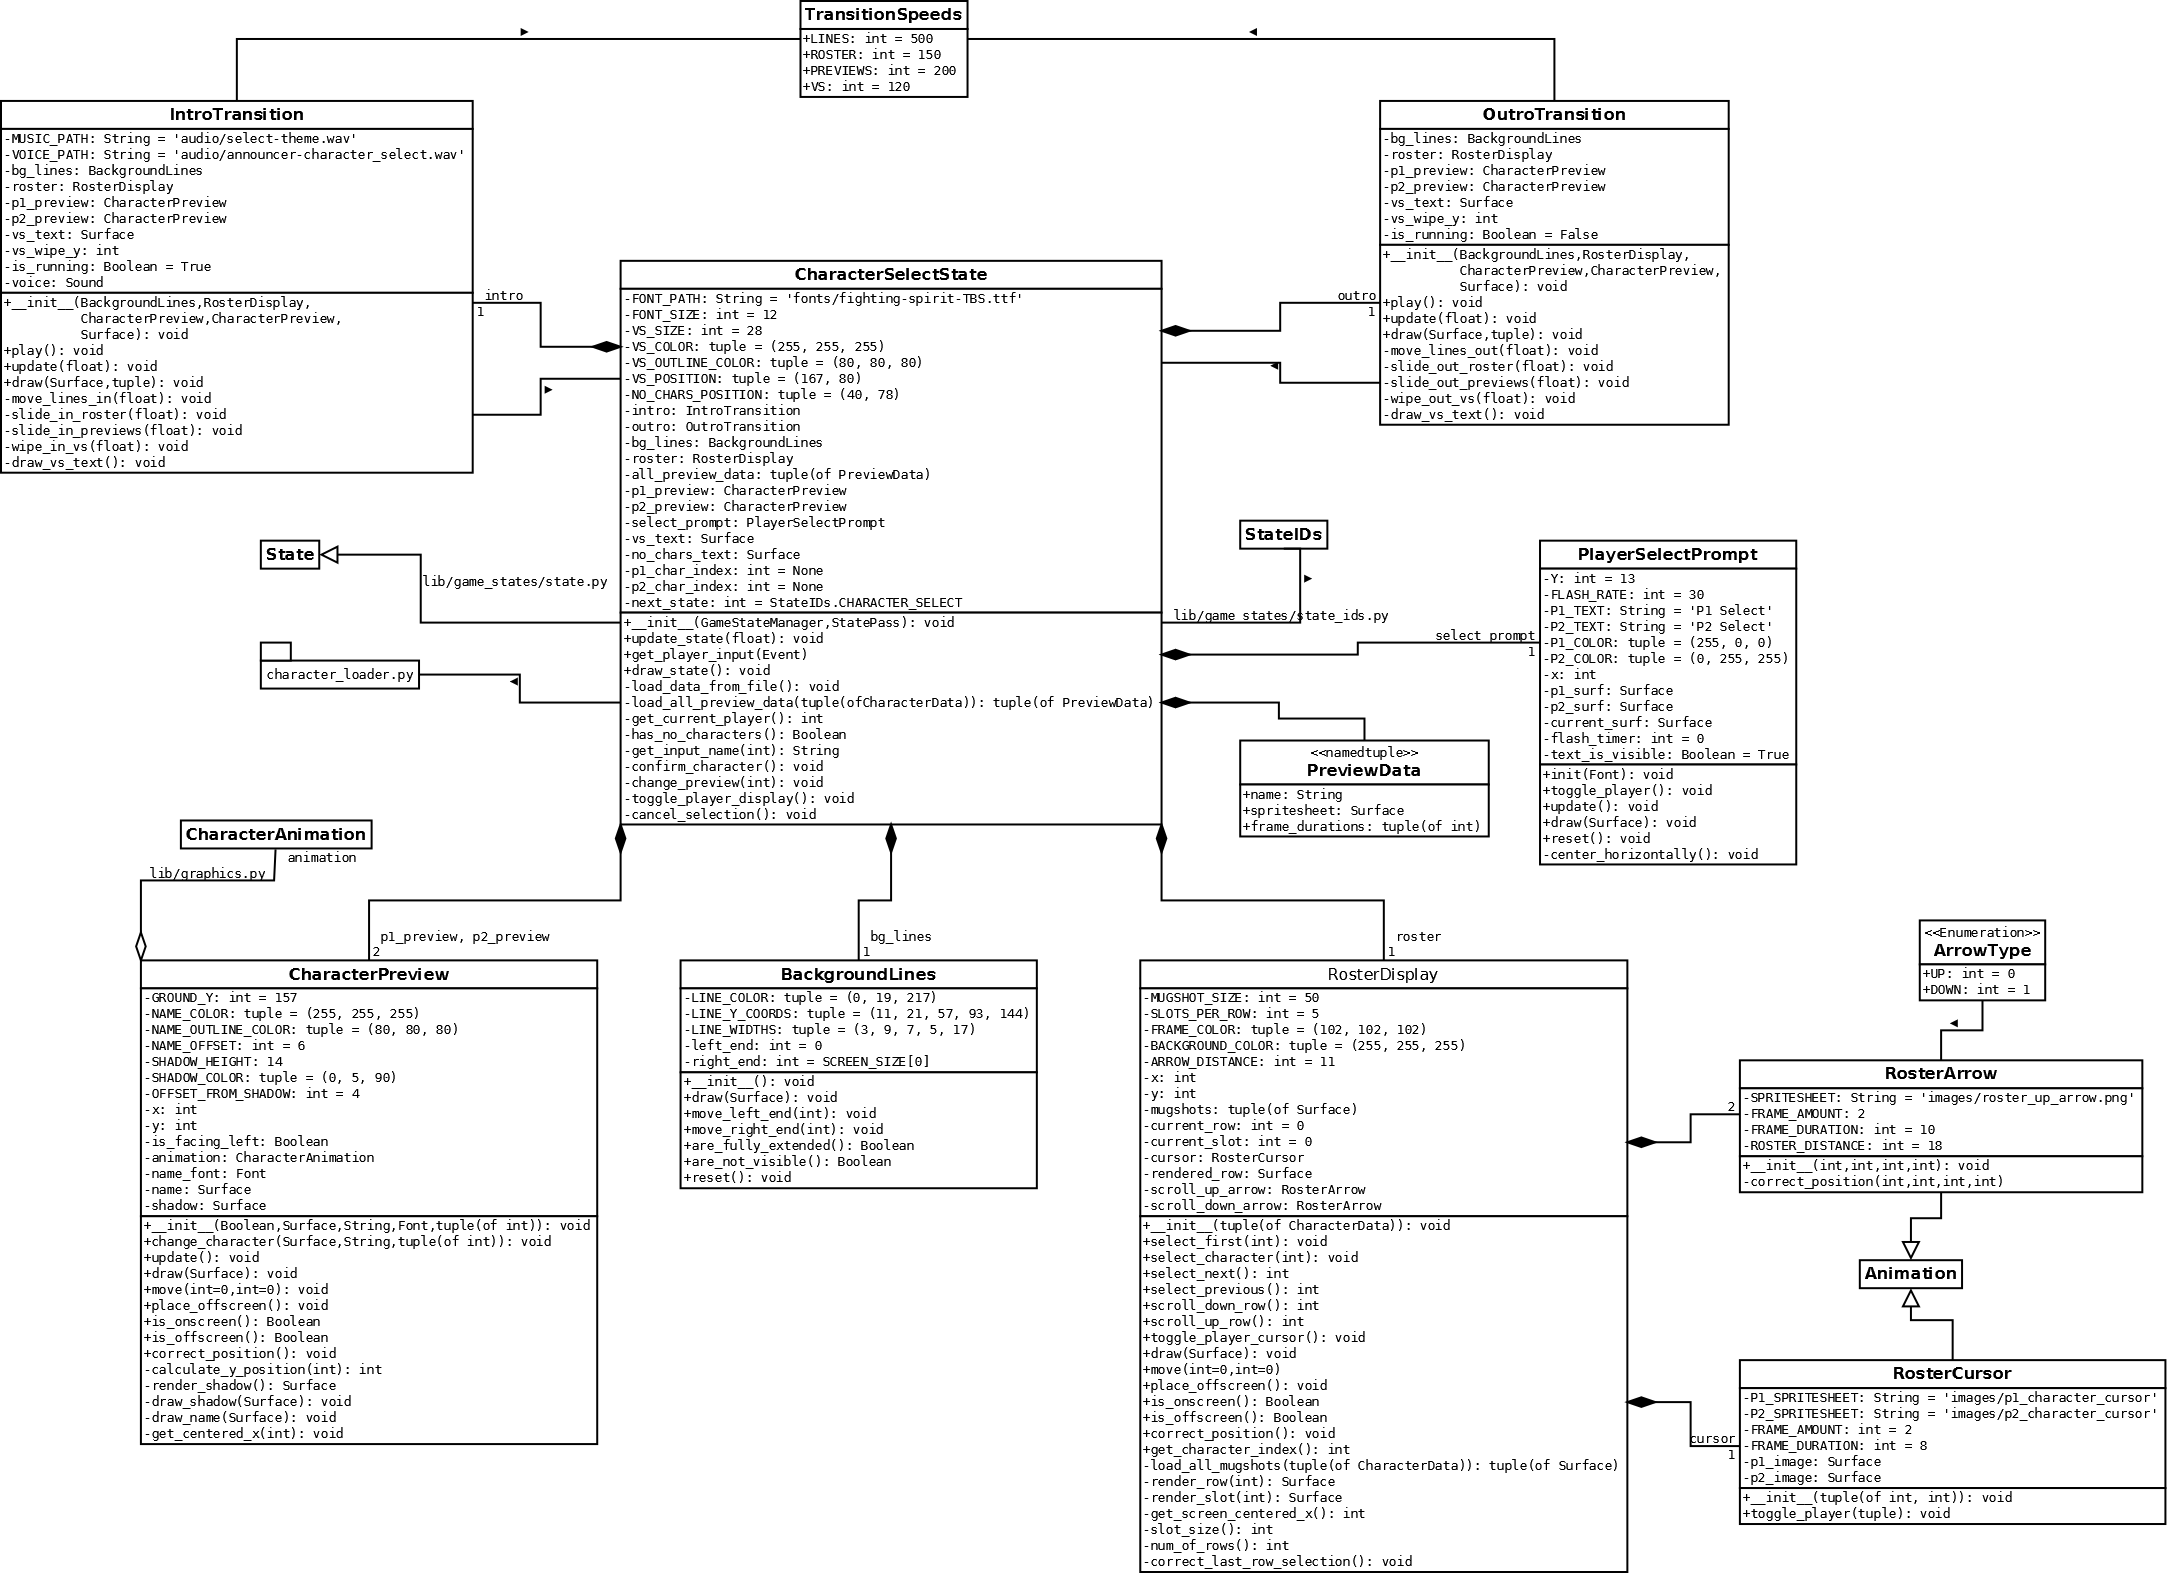
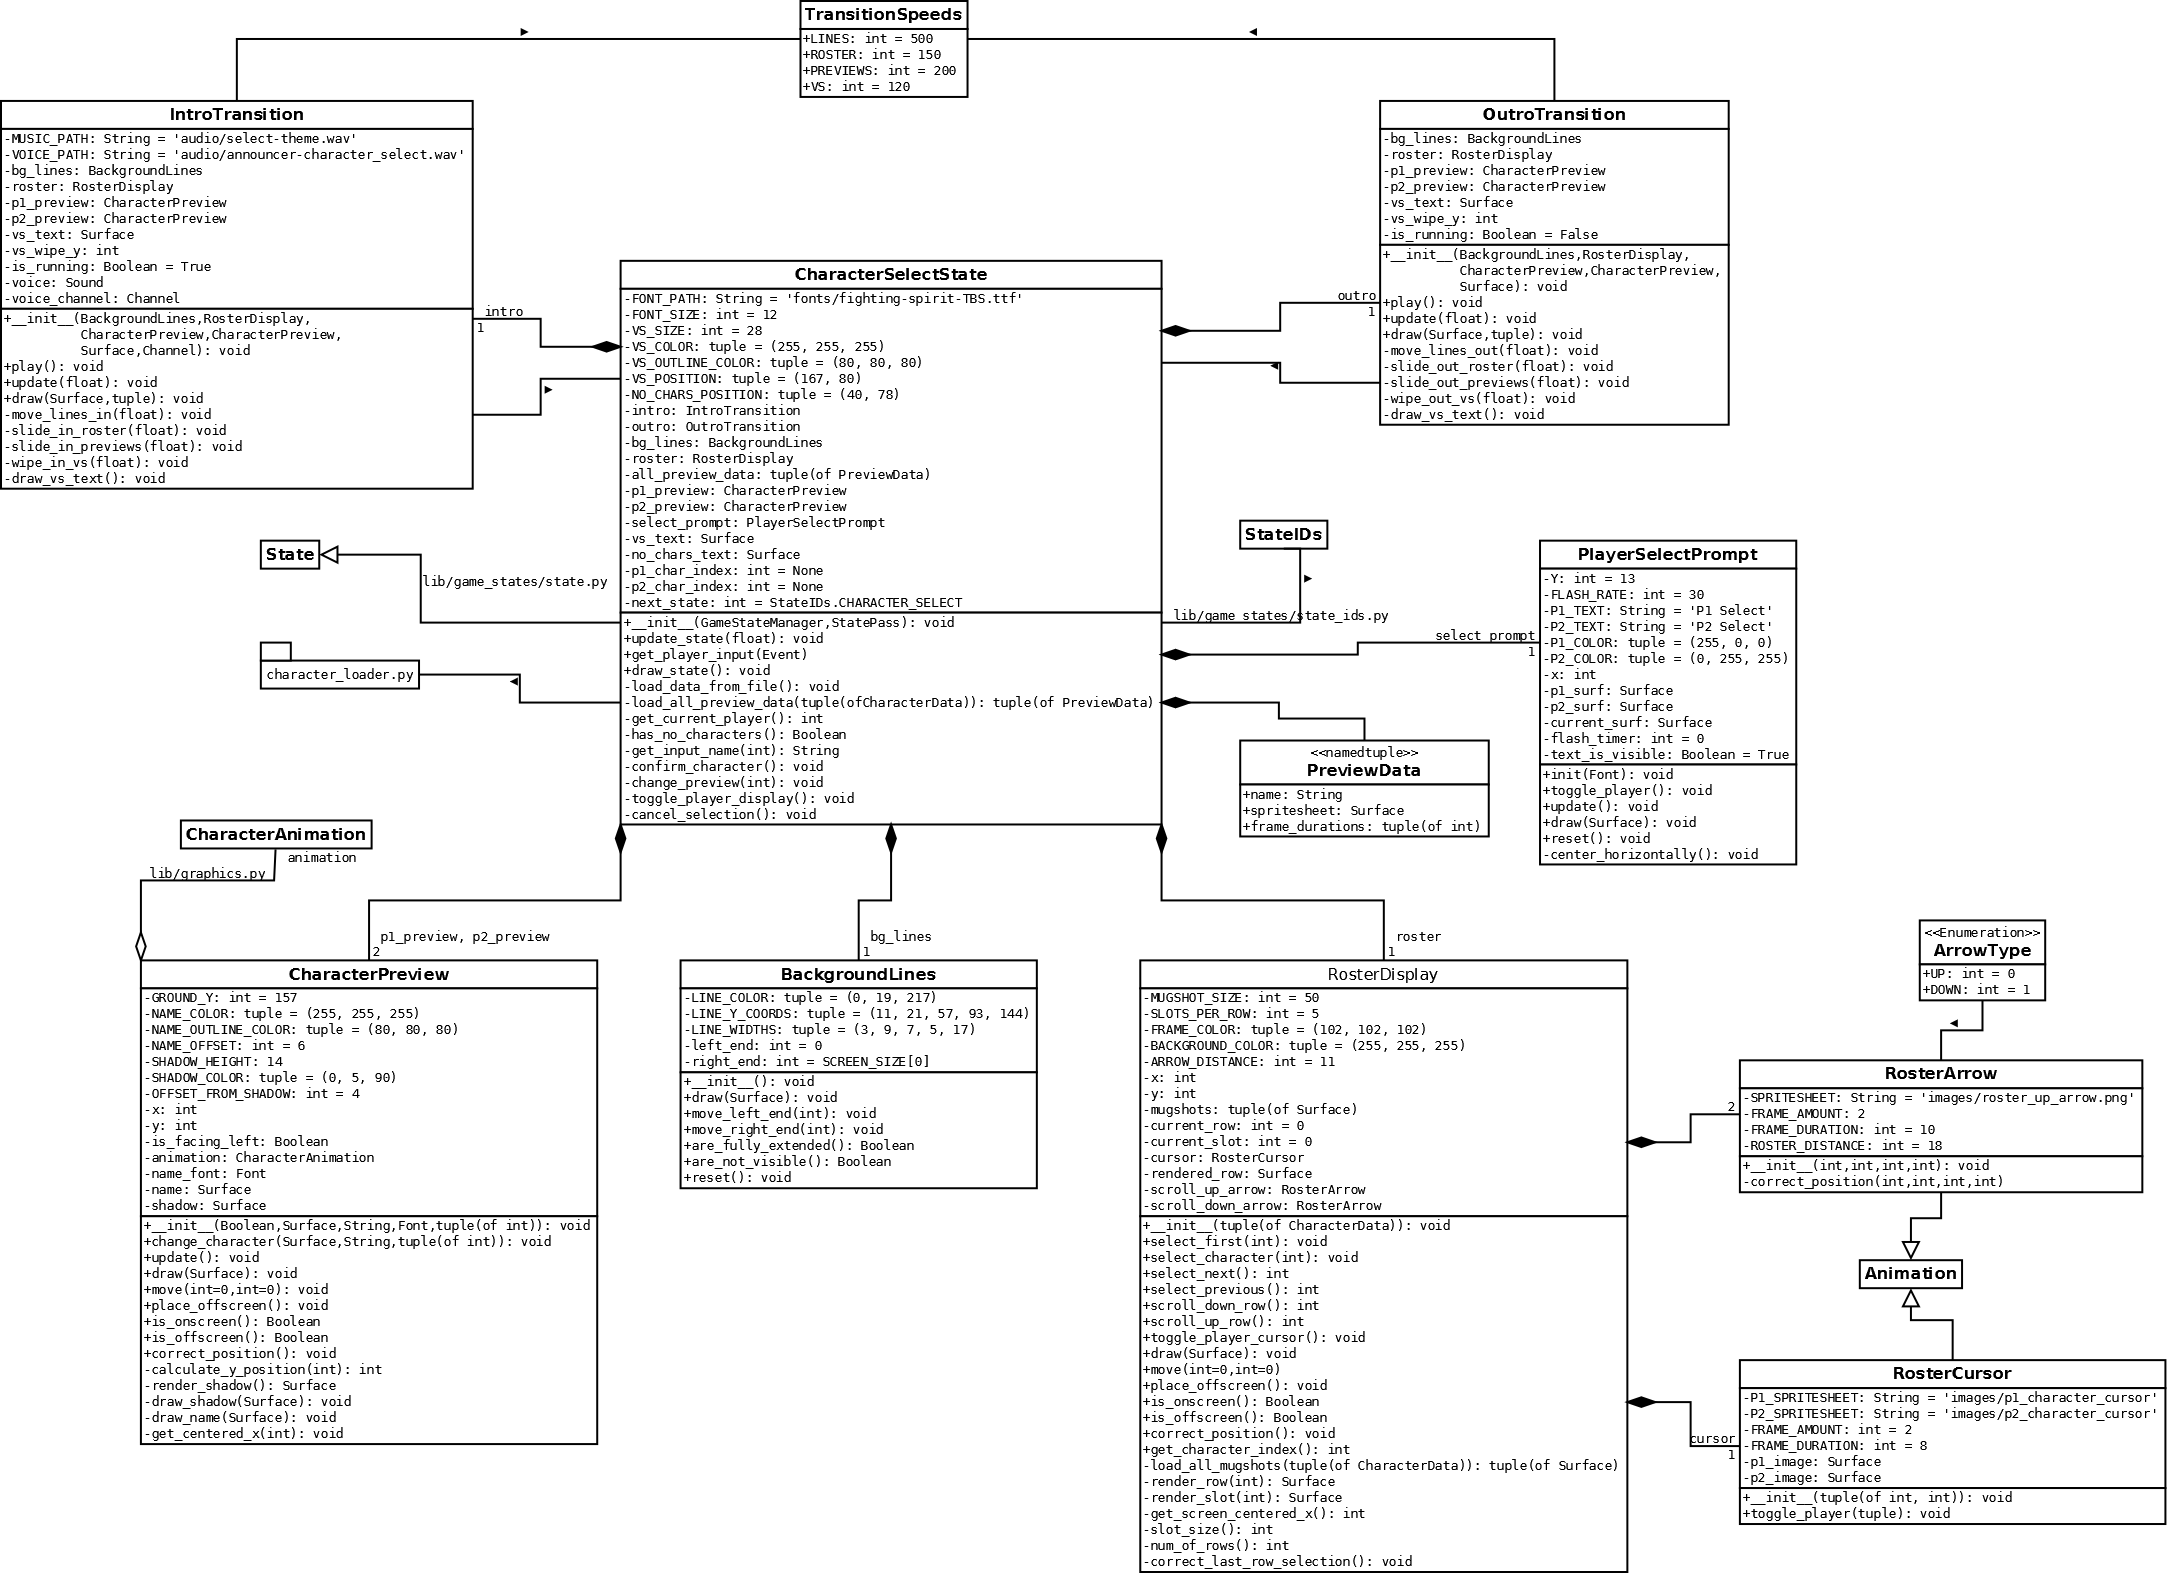
Use the announcer voice channel in intro

Changed region(s): [[0.0, 0.1868, 0.2164, 0.3113], [0.2164, 0.1868, 0.2473, 0.2179]]

diff --git a/lib/game_states/character_select_state.py b/lib/game_states/character_select_state.py
@@ -103,7 +103,8 @@ class CharacterSelectState(State):
         self.next_state = StateIDs.SELECT_CHARACTER
         self.intro = IntroTransition(self.bg_lines, self.roster,
                                      self.p1_preview, self.p2_preview,
-                                     self.vs_text)
+                                     self.vs_text,
+                                     self.state_pass.announcer_channel)
         self.intro.play()
 
     def load_data_from_file(self):
@@ -375,13 +376,16 @@ class IntroTransition(object):
         vs_wipe_y: An integer for the top end of the wipe in effect,
             relative to the VS text Surface.
         voice: A PyGame Sound that plays the announcer voice clip.
+        voice_channel: A PyGame Channel used for playing announcer
+            voice clips.
         is_running: A Boolean indicating whether the intro is currently
             running.
     """
     MUSIC_PATH = 'audio/select-theme.wav'
     VOICE_PATH = 'audio/announcer-character_select.wav'
 
-    def __init__(self, bg_lines, roster, p1_preview, p2_preview, vs_text):
+    def __init__(self, bg_lines, roster, p1_preview, p2_preview, vs_text,
+                 voice_channel):
         """Declare and initialize instance variables.
 
         Args:
@@ -391,6 +395,8 @@ class IntroTransition(object):
             p1_preview: The CharacterPreview for player 1.
             p2_preview: The CharacterPreview for player 2.
             vs_text: A Surface containing text that reads VS.
+            voice_channel: A PyGame Channel used for playing announcer
+                voice clips.
         """
         self.bg_lines = bg_lines
         self.roster = roster
@@ -400,6 +406,7 @@ class IntroTransition(object):
         self.vs_wipe_y = vs_text.get_height()
         self.is_running = False
         self.voice = pygame.mixer.Sound(self.VOICE_PATH)
+        self.voice_channel = voice_channel
 
     def play(self):
         """Begin running the intro animation."""
